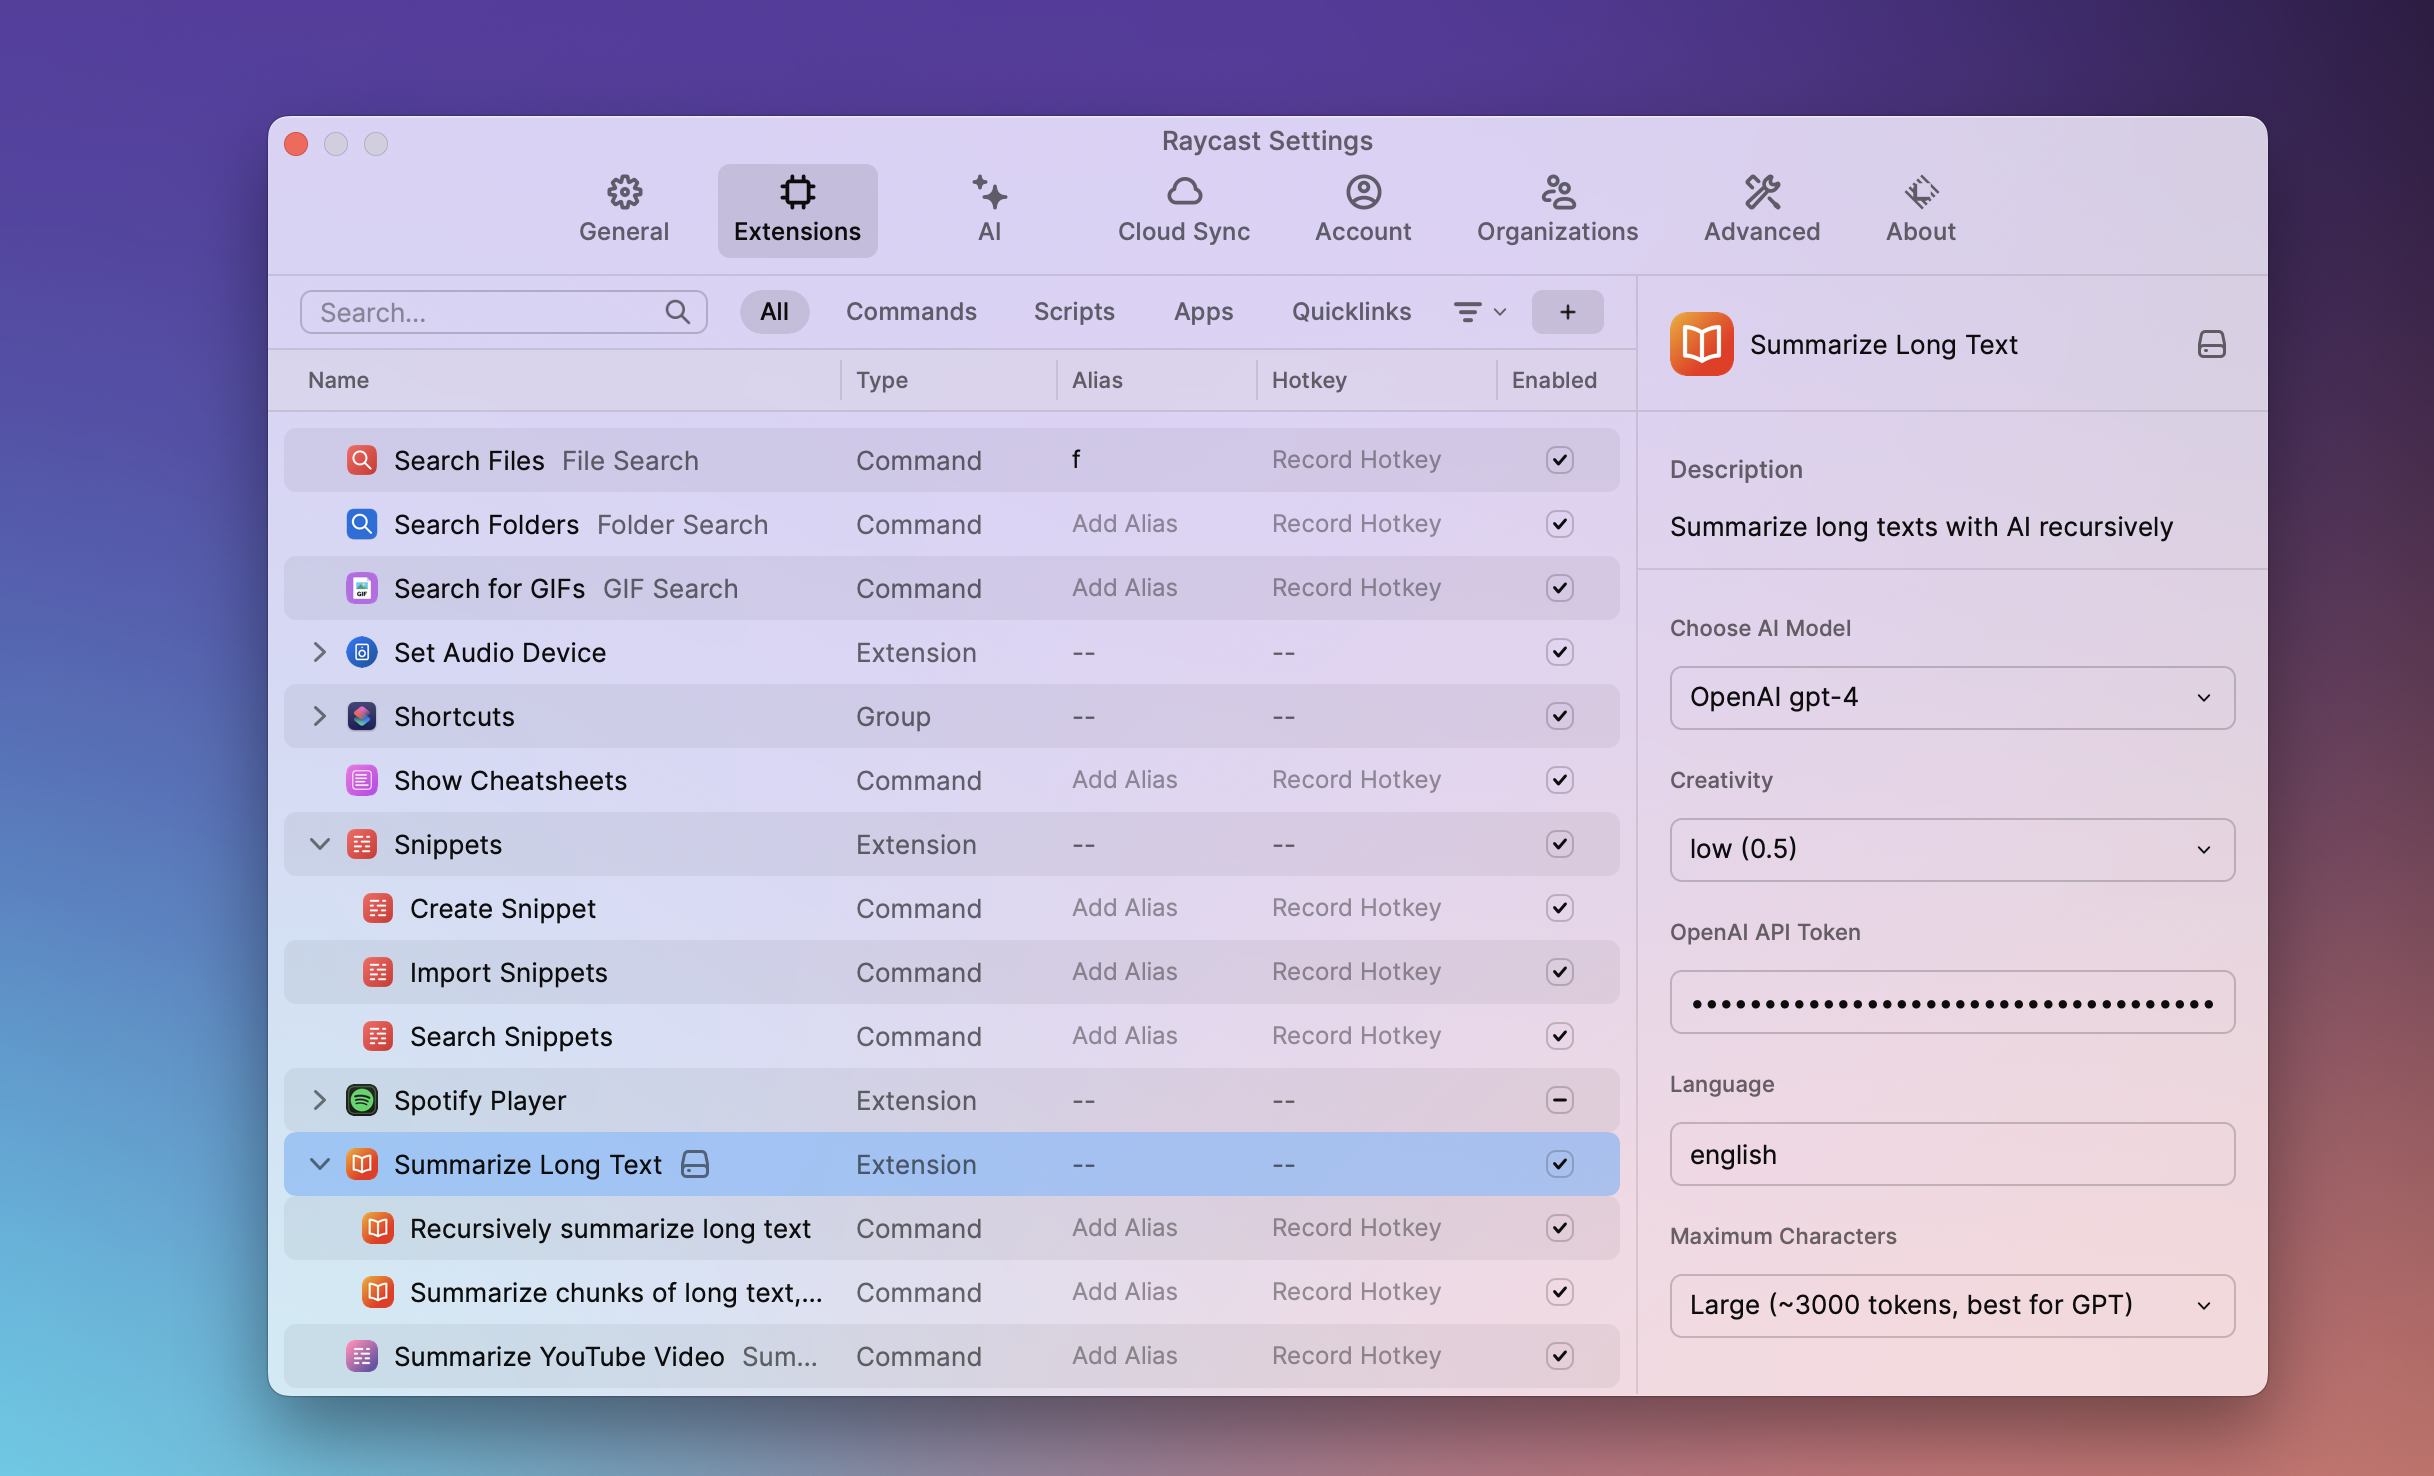
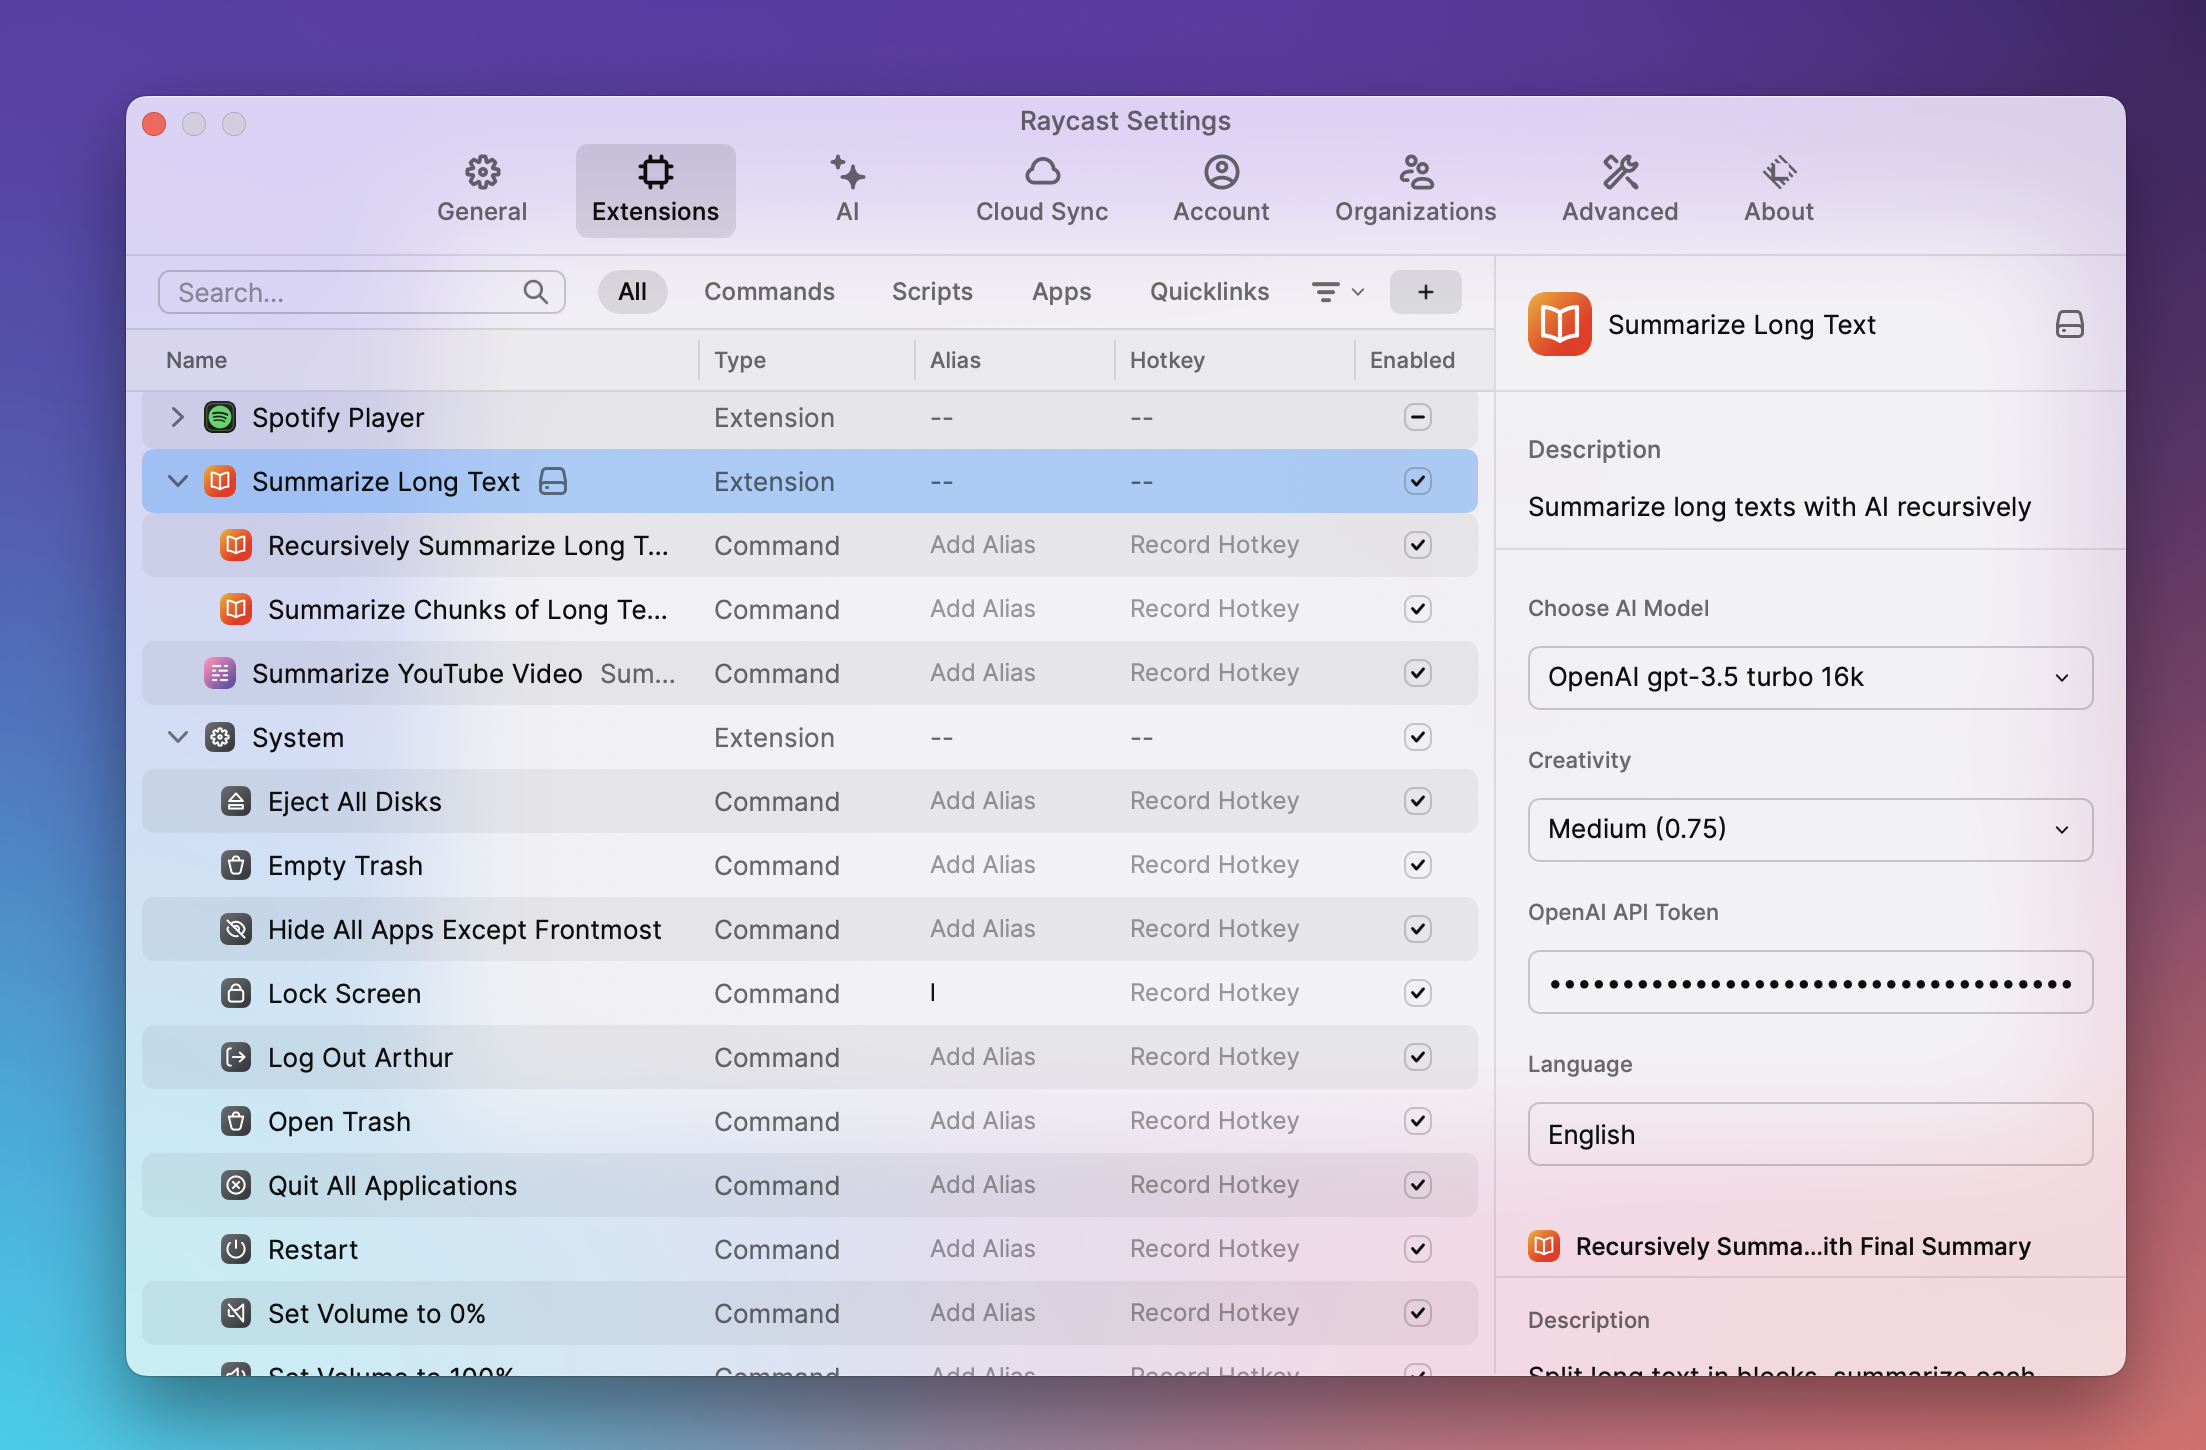
adding token and cost counts

diff --git a/src/utils.ts b/src/utils.ts
@@ -9,6 +9,8 @@ import { getModelUsableTokens } from "./AskLLM";
 // Define an interface for the result from the AI
 interface AIResult {
   text: string;
+  promptTokensUsed: number;
+  responseTokensUsed: number;
 }
 
 /**
@@ -43,9 +45,17 @@ export const splitText = async (text: string, chunkSize = 4000, chunkOverlap = 5
  *
  * @param text - The text to be split and summarized.
  * @param LLMParams - LLM parameters set in Preferences.
- * @returns A string of concatenated summaries.
+ * @returns A object with text, prompt and response tokens used.
  */
-export const getBlockSummaries = async (text: string, LLMParams: LLMParams): Promise<string> => {
+
+export const getBlockSummaries = async (
+  text: string,
+  LLMParams: LLMParams
+): Promise<{
+  text: string;
+  promptTokensUsed: number;
+  responseTokensUsed: number;
+}> => {
   // console.log("getBlockSummaries: ", text.length, " tokens: ", getTokens(text), " max usable tokens: ", getModelUsableTokens(LLMParams.modelName));
   const splitTexts = await splitText(text, getModelUsableTokens(LLMParams.modelName), 50);
   // console.log("SplitTexts: ", splitTexts.length);
@@ -55,10 +65,23 @@ export const getBlockSummaries = async (text: string, LLMParams: LLMParams): Pro
     splitTexts.map(async (summaryBlock, i) => {
       const prompt = getBlockSummaryPrompt(i, splitTexts.length, summaryBlock, LLMParams.language);
       const aiResult: AIResult = await AskLLM(prompt, LLMParams);
-      return aiResult.text;
+      return {
+        text: aiResult.text,
+        promptTokensUsed: aiResult.promptTokensUsed,
+        responseTokensUsed: aiResult.responseTokensUsed,
+      };
     })
   );
-  return temporarySummaries.join("\n");
+
+  const totalSummary = temporarySummaries.map((obj) => obj.text).join("\n");
+  const totalpromptTokensUsed = temporarySummaries.reduce((acc, obj) => acc + obj.promptTokensUsed, 0);
+  const totalresponseTokensUsed = temporarySummaries.reduce((acc, obj) => acc + obj.responseTokensUsed, 0);
+
+  return {
+    text: totalSummary,
+    promptTokensUsed: totalpromptTokensUsed,
+    responseTokensUsed: totalresponseTokensUsed,
+  };
 };
 
 /**
@@ -66,16 +89,34 @@ export const getBlockSummaries = async (text: string, LLMParams: LLMParams): Pro
  *
  * @param text - The text to summarize.
  * @param LLMParams - Object containing parameters like maximum number of characters (`maxChars`) and language set in preferences.
- * @returns The generated summary.
+ * @returns Object with text of summary, prompt and response tokens used.
  */
-export const getSummary = async (text: string, LLMParams: LLMParams): Promise<string> => {
+export const getSummary = async (
+  text: string,
+  LLMParams: LLMParams
+): Promise<{
+  text: string;
+  promptTokensUsed: number;
+  responseTokensUsed: number;
+}> => {
+  let promptTokensUsed = 0;
+  let responseTokensUsed = 0;
   // If text is too long, we need to split it in smaller chunks
   if (getTokens(text) > getModelUsableTokens(LLMParams.modelName)) {
-    text = await getBlockSummaries(text, LLMParams);
+    const res = await getBlockSummaries(text, LLMParams);
+    text = res.text;
+    promptTokensUsed += res.promptTokensUsed;
+    responseTokensUsed += res.responseTokensUsed;
   }
   const prompt = getFinalSummaryPrompt(text, LLMParams.language);
-  const result: AIResult = await AskLLM(prompt, LLMParams);
-  return result.text;
+  const res: AIResult = await AskLLM(prompt, LLMParams);
+  promptTokensUsed += res.promptTokensUsed;
+  responseTokensUsed += res.responseTokensUsed;
+  return {
+    text: res.text,
+    promptTokensUsed: promptTokensUsed,
+    responseTokensUsed: responseTokensUsed,
+  };
 };
 
 /**

diff --git a/src/AskLLM.ts b/src/AskLLM.ts
@@ -11,6 +11,8 @@ import OpenAI from "openai";
  */
 const AskLLM = async (text: string, LLMParams: LLMParams): Promise<LLMResponse> => {
   let responseText = "";
+  let promptTokensUsed = 0;
+  let responseTokensUsed = 0;
 
   //console.log("AskLLM: LLMParams: ", LLMParams);
 
@@ -25,6 +27,8 @@ const AskLLM = async (text: string, LLMParams: LLMParams): Promise<LLMResponse> 
         messages: [{ role: "user", content: text }],
       });
       responseText = result.choices[0].message?.content || "";
+      promptTokensUsed += result.usage?.prompt_tokens || 0;
+      responseTokensUsed += result.usage?.completion_tokens || 0;
     } catch (error) {
       // TODO: add toast
       if (error instanceof Error) {
@@ -52,25 +56,67 @@ const AskLLM = async (text: string, LLMParams: LLMParams): Promise<LLMResponse> 
     throw new Error("Unsupported AI model");
   }
 
-  return { text: responseText };
+  return {
+    text: responseText,
+    promptTokensUsed: promptTokensUsed,
+    responseTokensUsed: responseTokensUsed,
+  };
 };
 
 export default AskLLM;
 
+/**
+ * Function to get the maximum tokens for a specified model.
+ *
+ * @param {string} modelName - The name of the model.
+ * @returns {number} The maximum number of tokens for the model.
+ */
 export function getModelMaxTokens(modelName: string) {
   const modelSizes: ModelSizes = {
     "raycast-gpt-3.5-turbo": 16000,
-    "OPENAI-gpt-3.5": 8000,
+    "OPENAI-gpt-3.5": 4000,
     "OPENAI-gpt-3.5-turbo-16k": 16000,
     "OPENAI-gpt-4": 8000,
   };
-
   return modelSizes[modelName] || 8000;
 }
 
+/**
+ * Function to get the usable tokens for a specified model.
+ *
+ * @param {string} modelName - The name of the model.
+ * @returns {number} The usable number of tokens for the model.
+ */
 export function getModelUsableTokens(modelName: string) {
   // This is a bit of a hack to get the max usable characters for a model
   // Get max token context size and substract 1000 for prompt and system and
   // 1500 tokens for response. Rest is for text to summarize
   return getModelMaxTokens(modelName) - 2500 || 5500;
+}
+
+interface TokenPrices {
+  [key: string]: [number, number];
+}
+
+/**
+ * Function to get the cost of using a specified model for prompt and response tokens.
+ *
+ * @param {string} modelName - The name of the model.
+ * @param {number} promptTokens - The number of prompt tokens.
+ * @param {number} responseTokens - The number of response tokens.
+ * @returns {number} The total cost.
+ */
+export function getCost(modelName: string, promptTokens: number, responseTokens: number): number {
+  // returns array with two elements price per 1000 tokens for prompt and response
+  // source: https://openai.com/pricing
+  const tokenPrices: TokenPrices = {
+    "raycast-gpt-3.5-turbo": [0, 0],
+    "OPENAI-gpt-3.5-turbo": [0.0015, 0.002],
+    "OPENAI-gpt-3.5-turbo-16k": [0.003, 0.004],
+    "OPENAI-gpt-4": [0.03, 0.06],
+  };
+
+  const [promptPrice, responsePrice] = tokenPrices[modelName] || [0, 0];
+  const cost = 0.001 * (promptPrice * promptTokens + responsePrice * responseTokens);
+  return cost;
 }

diff --git a/src/hooks/useAISummary.ts b/src/hooks/useAISummary.ts
@@ -21,7 +21,7 @@ import { useState, useEffect } from "react";
 import { getPreferenceValues, AI, environment, showToast } from "@raycast/api";
 import { getSummary, getTokens, getBlockSummaries } from "../utils";
 import { LLMParams } from "../interfaces";
-import { getModelUsableTokens } from "../AskLLM";
+import { getModelUsableTokens, getCost } from "../AskLLM";
 
 import {
   NO_ACCESS_TO_RAYCAST_AI,
@@ -99,25 +99,27 @@ const useAISummary = (text: string | null): { summary: string | null; isLoading:
         // console.log(`Command name: ${environment.commandName}`);
         showToast(textTokens > maxUsableTokens ? LONG_TEXT : SUMMARIZING_TEXT);
 
-        let finalSummary = "";
-        // if we want final summary or have a short text, we use final summary
+        let finalSummary: { text: string; promptTokensUsed: number; responseTokensUsed: number } | null = null;
         if (environment.commandName === "summarizeLongText" || textTokens < maxUsableTokens) {
-          // console.log("in summarizeLongText");
-          // Fetch summary from AI
           finalSummary = await getSummary(text as string, LLMParams);
-        }
-        // if we want the summaries of chunks without final summarization, we use block summaries
-        else if (environment.commandName === "summarizeBlocks") {
-          // console.log("in summarizeBlocks");
+        } else if (environment.commandName === "summarizeBlocks") {
           finalSummary = await getBlockSummaries(text as string, LLMParams);
         }
-        setSummary(finalSummary);
+        if (finalSummary) {
+          setSummary(finalSummary.text);
+          const cost = getCost(LLMParams.modelName, finalSummary.promptTokensUsed, finalSummary.responseTokensUsed);
+          let tokenMessage = "Text Summary.";
+          if (finalSummary.promptTokensUsed > 0 || finalSummary.responseTokensUsed > 0) {
+            tokenMessage = `tokens prompt: ${finalSummary.promptTokensUsed}, response: ${
+              finalSummary.responseTokensUsed
+            }, cost: $ ${cost.toFixed(4)}.`;
+          }
+          showToast({
+            ...SUCCESS_SUMMARIZING_TEXT,
+            message: tokenMessage,
+          });
+        }
         setIsLoading(false);
-
-        showToast({
-          ...SUCCESS_SUMMARIZING_TEXT,
-          message: `summary tokens: ${getTokens(finalSummary)}`,
-        });
       } catch (error: unknown) {
         error instanceof Error && showToast({ ...ERROR_SUMMARIZING_TEXT, message: error.message });
       }

diff --git a/src/summarizeBlocks.tsx b/src/summarizeBlocks.tsx
@@ -49,7 +49,7 @@ const App: React.FC = () => {
             )}`}
           />
           <Action
-            title="Copy and open in ChatGPT"
+            title="Copy and Open in ChatGPT"
             icon={Icon.Globe}
             onAction={async () => (await Clipboard.copy(summary ?? ""), open("https://chat.openai.com"))}
           />

diff --git a/src/summarizeLongText.tsx b/src/summarizeLongText.tsx
@@ -49,7 +49,7 @@ const App: React.FC = () => {
             )}`}
           />
           <Action
-            title="Copy and open in ChatGPT"
+            title="Copy and Open in ChatGPT"
             icon={Icon.Globe}
             onAction={async () => (await Clipboard.copy(summary ?? ""), open("https://chat.openai.com"))}
           />

diff --git a/src/interfaces.ts b/src/interfaces.ts
@@ -22,8 +22,12 @@ export interface LLMParams {
  */
 export interface LLMResponse {
   text: string;
+  promptTokensUsed: number;
+  responseTokensUsed: number;
 }
 
 export interface ModelSizes {
   [key: string]: number;
 }
+
+

diff --git a/README.md b/README.md
@@ -29,8 +29,11 @@ You can set up the tool in several ways:
 ### Command View
 ![SummarizeLongText and SummarizeBlocks commands](./screenshot1.png)
 
-### Results View
+### Results of Recursively Summarize with Final Summary
 ![Results of Summarization](./screenshot2.png)
+
+### Summarize Chunks of Long Text without Final Summary
+![Results of Summarization](./screenshot4.png)
 
 ### Settings
 ![Settings](./screenshot3.png)
@@ -44,7 +47,7 @@ If you find problems, please let me know in the "Issues" part of this project pa
 Things i want to do, but haven't managed yet...
 <ul>
     <li>Open in Chat Wait: See if chat can wait for a user to hit "submit."</li> 
-    <li>Show Pricing: Show pricing in toast (with https://github.com/Cainier/gpt-tokens ?)</li> 
+    <li>Add openrouter, so we can use claude2, which is best at summarizing long documents</li>
     <li>More Prompts: Support for different prompts (now hardcoded in prompts.ts)?</li>
 </ul>
 

diff --git a/CHANGELOG.md b/CHANGELOG.md
@@ -1,5 +1,8 @@
 # Summarize Long Text Changelog
 
+## [Added token and cost for OpenaAI models] - 2023-10-05
+Showing prompt and response token counts and cost when using openai models
+
 ## [Added open ChatGPT action] - 2023-10-03
 Make a one-click action to copy result to clipboard and go to ChatGPT</li>
 
